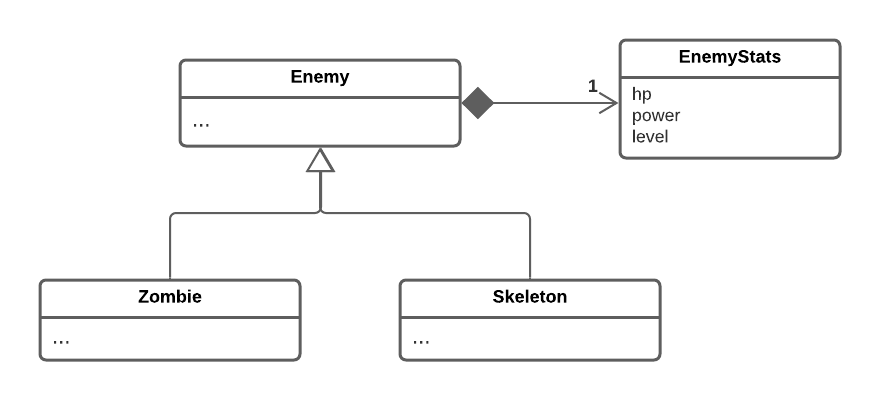
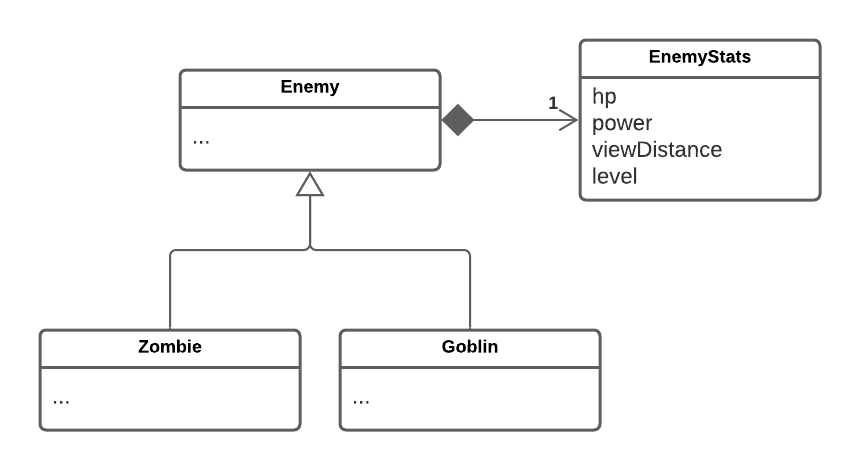
Adapted last delivery's patterns

diff --git a/docs/README.md b/docs/README.md
@@ -9,43 +9,48 @@ challenging enemies will appear and the tools at the disposal of the hero will e
 
 **Element drawing** - Each element of the game is drawn with its own
 image, represented by characters and saved in text files. Elements can be represented by static images 
-or with animations.
+or animated ones.
 
-**Arena** - Has the map, enemies and hero of the game.
+**Map Drawing** - The maps are loaded from a file, which tells their aspect and composition.
+
+**Arena** - Has the maps, enemies and hero of the game.
 
 **Arena Loading** - The composition of the arena is done by loading different files. These contain representation of 
 the terrain of the mapZone, the enemies and the hero, allowing the modification of the arena to be easily done.
 
-**Hero movement** - The hero can move around the mapZone, due to collision with blocks, according to the inputs from the 
+**Hero movement** - The hero can move around the map, restricted by collision with blocks, according to the inputs from the 
 player, up, down, left and right arrows. These movements consist of lateral movements and vertical block climbing.
 
-**Enemy movement** - Enemies move towards the hero along the mapZone but can't move up, just fall down, therefore they can 
-sometimes be trapped.
+**Enemy movement** - Enemies move towards the hero along the map but can't move climb, just fall down, therefore they can 
+sometimes be trapped. They also have a view distance, from which they start following and attacking the hero.
 
-**Tools** - Items that the hero can hold in his hand.
+**Items** - Items that the hero can buy and hold in his hand. They can be either tools (sword, pickaxe, etc.)
+or buffs (food for regeneration and potions, for example).
 
-**Toolbar** - Stores items the hero grabs.
+**Toolbar** - Stores and shows the items that the hero buys. The player can choose what to use with the keyboard numbers
 
-## Planned Features
+**Breaking blocks** - The hero, when equipped with the proper tool, is able to break blocks from the map.
+Different blocks have different hardnesses, meaning that a tool might not be able to break all blocks.
 
-**Breaking blocks** - The hero, when equipped with the proper tool, will be able to break blocks from the mapZone.
+**Placing blocks** - The hero is able to place blocks, modifying the map.
 
-**Placing blocks** - The hero will be able to place blocks, this way being able to modify the mapZone.
-
-**Multiple maps** - The arena will be able to contain several maps, but will only display one at a time.
+**Multiple maps** - The arena is able to contain several maps, but will only display one at a time.
 These maps can have been already created or can be newly generated according to the hero's level. 
 Therefore, providing a sense of progression to the game.
 
 **Combat system** - Enemies will be able to inflict damage on the hero through physical contact, and the hero
 will have to fight them off with different tools.
 
-**Healing** - If the hero has taken damage it may consume buff to restore some of the lost HP.
+**Healing** - If the hero has taken damage it may consume food to restore some of the lost HP.
 
-**Crafting Functionality** - The hero will be capable of crafting Items, using materials.
+**Item shop** - The hero is able to buy items in a shop, by pressing 'B' and consuming credits gained
+by leveling up.
 
-**Tree Evolution System** - The hero may upgrade his stats / learn new skills, through leveling.
+**Tree Evolution System** - The hero may upgrade his stats by consuming credits gained by leveling up.
+The tree can be open by pressing 'Tab'.
 
-**Hidden Rooms / Traps** - Include hidden areas that require some trick to get inside.
+**Menu** - The game has some interactive menus, including the main menu presented at the start
+of the game.
 
 ## Design
 
@@ -62,13 +67,14 @@ since it had a different responsibility from the Viewer
 
 #### Implementation
 To implement this pattern, we created four packages: Model, View, Controller
-and GUI. The implemented GUI uses Lanterna
+and GUI. The implemented GUI uses Lanterna. Additionally, we added packages for
+'Utils' and 'States'
 
 The way they interact can be analyzed in the following diagram:
 
 ![MVCUML](img/mvc.png)
 
-The respective packages can be found [here](https://github.com/FEUP-LPOO-2021/lpoo-2021-g34/tree/master/src/main/java)
+The respective packages can be found [here](https://github.com/FEUP-LPOO-2021/lpoo-2021-g34/tree/master/src/main/java/Terrarius)
 
 #### Consequences
 Using this pattern, we can separate the logic behind the input, processing and
@@ -77,7 +83,44 @@ making it significantly easier to make changes on them, without having to change
 the others
 
 
-### Terrarius.Terrarius Loop Pattern
+### State Pattern
+
+#### Problem in Context
+We needed a way to alter the program's behaviour mid-game, while executing the main loop
+continuously. Additionally, we sometimes needed to come back to a previous state of the program.
+
+### The Pattern
+For this, we used the **State Pattern**, which suggests the creation of new classes for
+every possible state of the game, and extract all specific behaviours into those classes.
+
+This way, the original object (in this case, an instantiation of the 'Terrarius' class)
+just needs to keep a reference to its current state. The states' classes will also take care
+of the transitions into other states.
+
+Additional information can be found [here](https://refactoring.guru/design-patterns/state)
+
+#### Implementation
+
+Our idea of implementation follows the given diagram:
+
+![States](img/states.png)
+
+The code related to the pattern can be found in the following URLs:
+
+- [State Package](https://github.com/FEUP-LPOO-2021/lpoo-2021-g34/tree/master/src/main/java/Terrarius/States)
+- [Terrarius Class](https://github.com/FEUP-LPOO-2021/lpoo-2021-g34/blob/master/src/main/java/Terrarius/Terrarius.java)
+
+
+#### Consequences
+
+Using this patter, we can have an object whose behaviour depends on the state of the game, without
+using any conditionals or duplicating any code. 
+
+We can also easily introduce new states without changing any of the code that's already implemented.
+The code also becomes more readable, understandable and clear.
+
+
+### Game Loop Pattern
 
 #### Problem in Context
 We needed a way to faithfully update the game without depending on the CPU's clock
@@ -104,10 +147,10 @@ Below, we can find a flowchart which can help visualize this:
 
 ![Loop](img/loop.png)
 
-The pattern was implemented exactly like above and can be found
-in the following class:
+The pattern was implemented like above and can be found
+in the following method:
 
-- [GameController](https://github.com/FEUP-LPOO-2021/lpoo-2021-g34/blob/master/src/main/java/Terrarius.Controller/GameController.java)
+- [Game Loop](https://github.com/FEUP-LPOO-2021/lpoo-2021-g34/blob/17fe811ea55e6838458958bc75029312a007dd57/src/main/java/Terrarius/Terrarius.java#L55)
 
 #### Consequences
 The use of this pattern has a lot of advantages, like:
@@ -116,8 +159,8 @@ The use of this pattern has a lot of advantages, like:
 a fast computer might have 60 fps while a slow computer has 30 fps
 - The speed of the game is independent of the speed of the computer. By updating
 the logic of the game based on the current time, fast and slow computers will
-update their games at the same time, even with different framerates
-- The game won't break even if a game cycle takes more time than the theoretical
+update their games almost at the same time, even with different framerates
+- The game won't break or slow down even if a game cycle takes more time than the theoretical
 time between updates, which could happen if we simply waited for the remaining time
 until the next frame (with fixed framerate)
   
@@ -126,7 +169,7 @@ time step, but will render arbitrarily:
 
 - Since the render methods will not be in sync with the update methods, faster
 machines might often render moving objects at the same position they were in the last frame,
-seeing that no in-game time has passed, loosing smoothness in the end
+seeing that no in-game time has passed, not gaining much smoothness in the end
 - The problem above can be atoned with an extrapolation method, which will add
 a lot of smoothness to the motion. However, in some cases, this strategy can fail,
 resulting in objects being rendered out of place (for example, if the object is blocked
@@ -134,19 +177,18 @@ by an obstacle). This happens because we're pretty much guessing where the objec
 in X milliseconds from now
 - The extrapolation method turned out difficult to implement with the Lanterna GUI, since,
 almost always, the elements only move one unit per X updates, meaning that we can't divide
-their movements any further.
+their movements any further, so it was not implemented
   
 Even with these problems, the pattern is still useful in our implementation.
-On one hand, the high-end users might not get too much advantage, but they still
-get the best experience. On the other hand, we assure that the low-end users don't lose
-any updates on their game
+On one hand, the high-end users still get the best experience currently possible. 
+On the other hand, we assure that the low-end users don't lose any updates on their game
   
 
 ### Elements Stats
 
 #### Problem in Context
 
-There were some classes (namely, items and enemies) who had
+There were some classes (namely, items, enemies and hero) who had
 a lot of primitives all related to its stats. This is a smell
 called **primitive obsession**
 
@@ -164,17 +206,21 @@ Below, there's a diagram showing how this was done in the Enemy class
 
 The relevant classes for this pattern can be found in the following files:
 
-- [Enemy](https://github.com/FEUP-LPOO-2021/lpoo-2021-g34/blob/master/src/main/java/Terrarius.Model/elements/enemies/Enemy.java)
+- [Enemy](https://github.com/FEUP-LPOO-2021/lpoo-2021-g34/blob/master/src/main/java/Terrarius/Model/Game/elements/enemies/Enemy.java)
 
-- [EnemyStats](https://github.com/FEUP-LPOO-2021/lpoo-2021-g34/blob/master/src/main/java/Terrarius.Model/elements/enemies/EnemyStats.java)
+- [EnemyStats](https://github.com/FEUP-LPOO-2021/lpoo-2021-g34/blob/master/src/main/java/Terrarius/Model/Game/elements/enemies/EnemyStats.java)
 
 - [Tool](https://github.com/FEUP-LPOO-2021/lpoo-2021-g34/blob/master/src/main/java/Terrarius.Model/items/tools/Tool.java)
 
 - [ToolStats](https://github.com/FEUP-LPOO-2021/lpoo-2021-g34/blob/master/src/main/java/Terrarius.Model/items/tools/ToolStats.java)
 
-- [Food](https://github.com/FEUP-LPOO-2021/lpoo-2021-g34/blob/master/src/main/java/Terrarius.Model/items/buff/Food.java)
+- [Buff](https://github.com/FEUP-LPOO-2021/lpoo-2021-g34/blob/master/src/main/java/Terrarius.Model/items/buff/Food.java)
 
-- [FoodStats](https://github.com/FEUP-LPOO-2021/lpoo-2021-g34/blob/master/src/main/java/Terrarius.Model/items/buff/FoodStats.java)
+- [BuffStats](https://github.com/FEUP-LPOO-2021/lpoo-2021-g34/blob/master/src/main/java/Terrarius.Model/items/buff/FoodStats.java)
+
+- [Hero](https://github.com/FEUP-LPOO-2021/lpoo-2021-g34/blob/master/src/main/java/Terrarius/Model/Game/elements/hero/Hero.java)
+
+- [HeroStats](https://github.com/FEUP-LPOO-2021/lpoo-2021-g34/blob/master/src/main/java/Terrarius/Model/Game/elements/hero/HeroStats.java)
 
 #### Consequences
 The use of this pattern allows for:
@@ -186,53 +232,26 @@ The use of this pattern allows for:
   has, according to its level
 
 - We have one more class per type of game element, but that's reasonable when
-  taking into consideration the quantity of their subclasses, saving us a lot of lines
+  taking into consideration the size the original class would otherwise have.
 
-However, this also adds another code smell, **Data class**, since all
+However, this also adds another code smell, **Data class**, since
 these Stats classes are mainly or only composed by primitives and their
 getters/setters. Even with this problem, we believe it's worth it to use
 the pattern.
 
 
-### Constructors with Template Methods
 
-#### Problem in Context
-We had some abstract classes with attributes which are only defined
-by their subclasses. Having that attribute in all the subclasses would
-inflict against **The Release Reuse Equivalency Principle**, since we
-would be writing almost identical code in each subclass
-
-#### The Pattern
-To solve this problem, we used the **Form Template Method** refactoring
-to each class falling under these circumstances. This way, we only have the
-relevant attributes in the abstract class and use abstract methods (which will
-be overridden by the subclasses) to initialize/calculate them
-
-#### Implementation
-The following image shows how this pattern can be implemented in each class:
-
-![TemplateUML](img/template.png)
-
-Below, we're linking the classes where this was applied:
-
-- [Enemy](https://github.com/FEUP-LPOO-2021/lpoo-2021-g34/blob/master/src/main/java/Terrarius.Model/elements/enemies/Enemy.java)
-- [Block](https://github.com/FEUP-LPOO-2021/lpoo-2021-g34/blob/master/src/main/java/Terrarius.Model/elements/blocks/Block.java)
-- [Item](https://github.com/FEUP-LPOO-2021/lpoo-2021-g34/blob/master/src/main/java/Terrarius.Model/items/Item.java)
-
-#### Consequences
-The use of this pattern prevents duplicate code and allows us to easily
-change how the class attributes are calculates, when they depend on subclass
-implementations
-
-### There should be multiple ways of creating arenas
+### There should be multiple ways of creating maps
 
 #### Problem in Context
 
-We want to have the possibility of creating different arenas, which could be associated with a specific level / region. Additionally, we also want to introduce more flexibility so that in the future we can create the arena through different methods, for example, reading a file.
+We want to have the possibility of creating different maps, which could be associated with a specific level / region.
+Additionally, we wanted a flexible way to create the maps through different methods, in the future.
 
 #### The Pattern  
 
-We have applied the Builder pattern. This is a creational design pattern that lets you construct complex objects step by step. The pattern allows you to produce different types and representations of an object using the same construction code.
+We have applied the Builder pattern. This is a creational design pattern that lets us build complex objects, step by step.
+The pattern allows you to produce different types and representations of an object using the same construction code.
 (Alternative: Fluent Builder pattern)
 
 #### Implementation 
@@ -241,33 +260,37 @@ This pattern suggests that we extract the object construction out of its own cla
 
 ![alt text](img/builderMethod_arena.png "Builder Method UML")
 
-As we can see, we have an *ArenaBuilder* that knows how to create an arena (createArena method), but the way each part of the arena is built is specified in its subclasses.  
+As we can see, we have a *MapBuilder* that knows how to create a MapZone (createMap() method),
+but the way each part of the map is built is specified in its subclasses.
+In our implementation, the Arena also has the help of a MapChoser, which decides which map
+to create.
 
 These classes can be found in the following files: 
 
-* [ArenaBuilder](https://github.com/FEUP-LPOO-2021/lpoo-2021-g34/blob/master/src/main/java/Terrarius.Model/arena/ArenaBuilder.java).
-* [DefaultArenaBuilder](https://github.com/FEUP-LPOO-2021/lpoo-2021-g34/blob/master/src/main/java/Terrarius.Model/arena/DefaultArenaBuilder.java).
-* [Arena](https://github.com/FEUP-LPOO-2021/lpoo-2021-g34/blob/master/src/main/java/Terrarius.Model/arena/Arena.java)
-* [Terrarius.Terrarius](https://github.com/FEUP-LPOO-2021/lpoo-2021-g34/blob/master/src/main/java/Terrarius.Terrarius.java)
+* [MapBuilder](https://github.com/FEUP-LPOO-2021/lpoo-2021-g34/blob/master/src/main/java/terrarius/model/game/arena/MapBuilder.java)
+* [LoaderMapBuilder](https://github.com/FEUP-LPOO-2021/lpoo-2021-g34/blob/master/src/main/java/terrarius/model/game/arena/LoaderMapBuilder.java).
+* [Arena](https://github.com/FEUP-LPOO-2021/lpoo-2021-g34/blob/master/src/main/java/terrarius/model/game/arena/Arena.java)
+* [MapZone](https://github.com/FEUP-LPOO-2021/lpoo-2021-g34/blob/master/src/main/java/terrarius/model/game/arena/MapZone.java)
 
 #### Consequences
 
 The use of the Builder Pattern allows the following benefits:
 - Construct objects step-by-step
 - Reuse the same construction code
-- Single Responsability Principle. Isolate complex construction code from the logic of the Arena.
+- Single Responsibility Principle. Isolate complex construction code from the logic of the Arena.
 
-### Element viewers and images
+[CHANGE]
+### Component viewers and images
 
 #### Problem in context
 
-Each element, hero, enemy or block, can be visually represented by a "matrix" of characters.
+Each component of the game can be visually represented by a "matrix" of characters.
 A good way to store the visual representation of these elements is through files. However, if we have 2 Blocks from the
-same class, even though we want them to look the same, loading the files multiple times would be wasteful.
+same type, we want them to look the same, and loading the files multiple times would be wasteful.
 
-#### The Pattern    
+#### The Pattern
 
-To solve this problem the **Factory Method** pattern was used. This pattern allows the creation of an interface for
+To solve this problem, the **Factory Method** pattern was used. This pattern allows the creation of an interface for
 creating an object but lets its subclasses determine which class to instantiate.
 
 Further explanation can be found here: https://www.cs.unc.edu/~stotts/GOF/hires/pat3cfso.htm
@@ -297,13 +320,13 @@ Advantages:
 - Creating objects inside a class with a factory method is always more flexible than creating an object directly. 
   Factory Method gives subclasses a hook for providing an extended version of an object.
   
-- The factory method doesn't have to be called by only Factories. It can also be used for parallel class hierarchies.
-  (our case?)
+- The factory method doesn't have to be called only by Factories. It can also be used for parallel class hierarchies.
+
+- We can avoid tight coupling between the creator and the products.
 
 Disadvantages:
 
- - In order to create a Concrete Product object, the Factory class might have to be subclassed, this is a disavantage since 
-   another point of evolution will have to be dealt with.
+ - In order to create a Concrete Product object, the Factory class might have to be subclassed.
    
 ## Known Code Smells and Refactoring Suggestions
 
